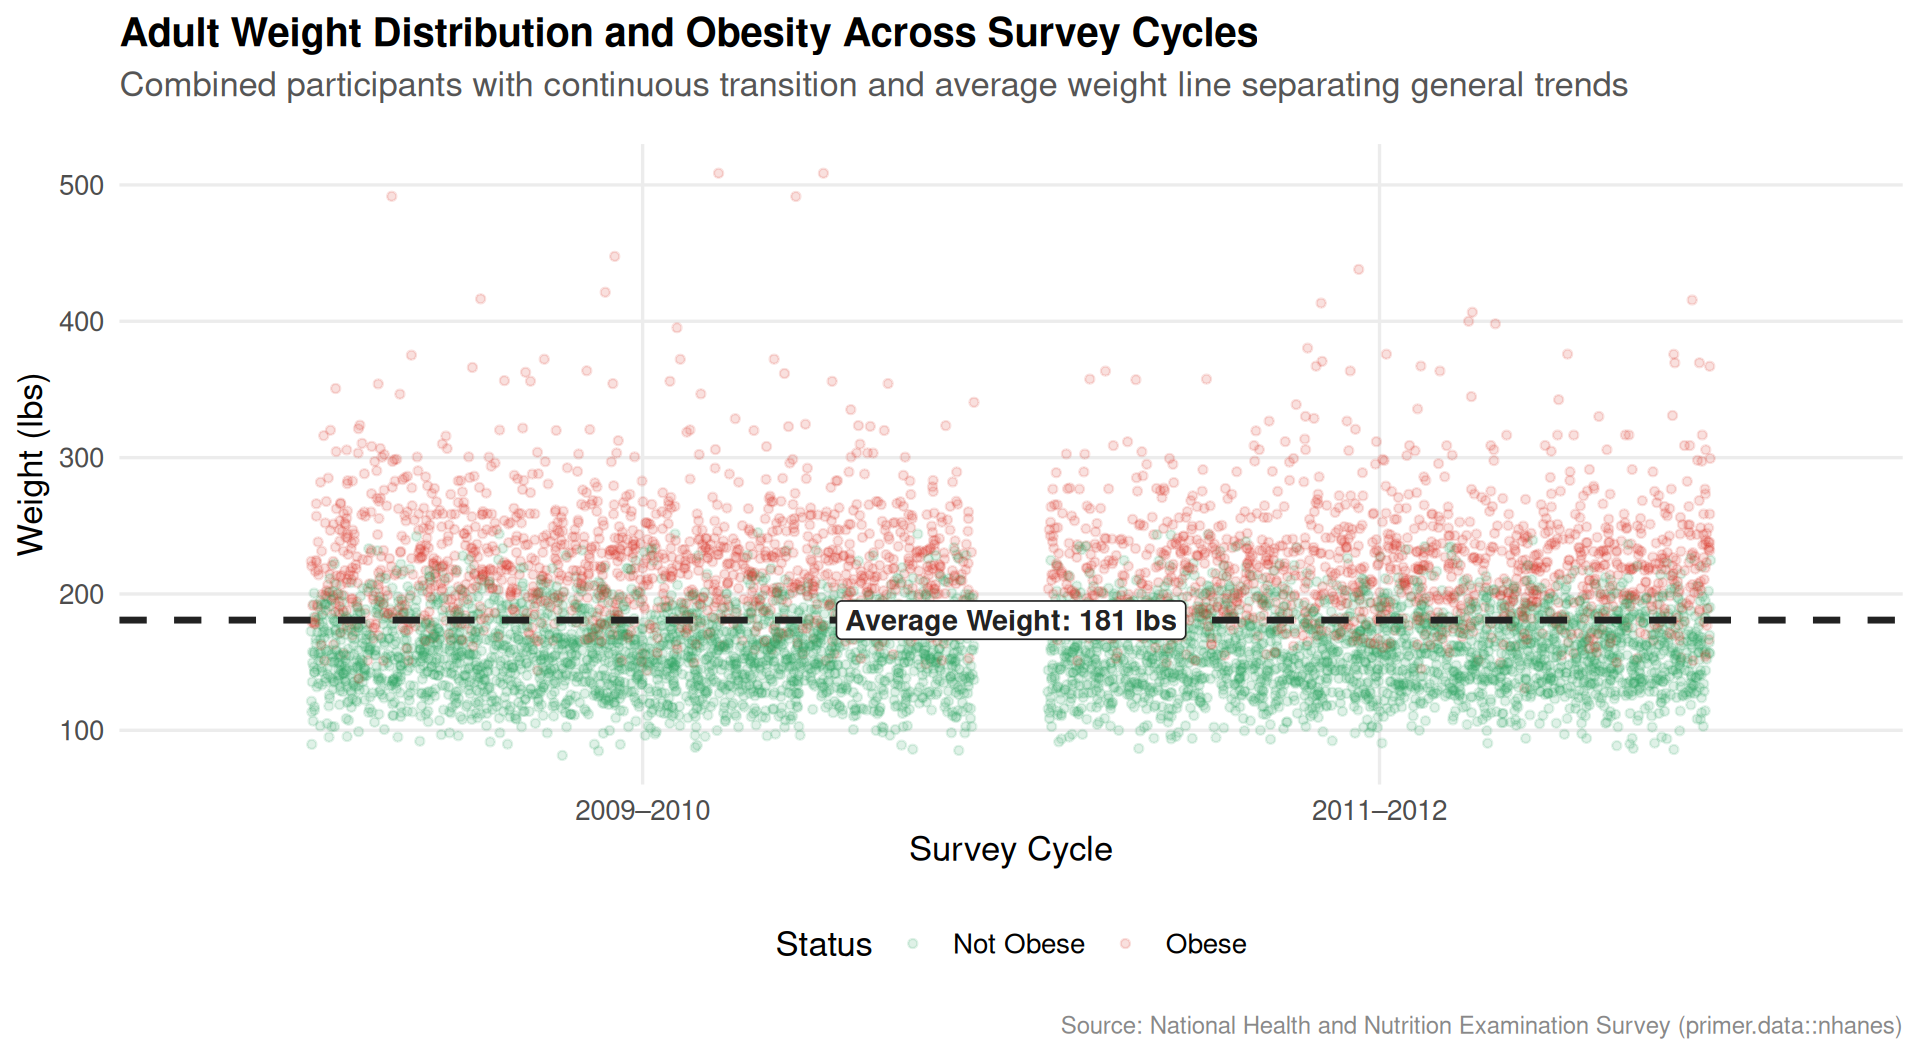
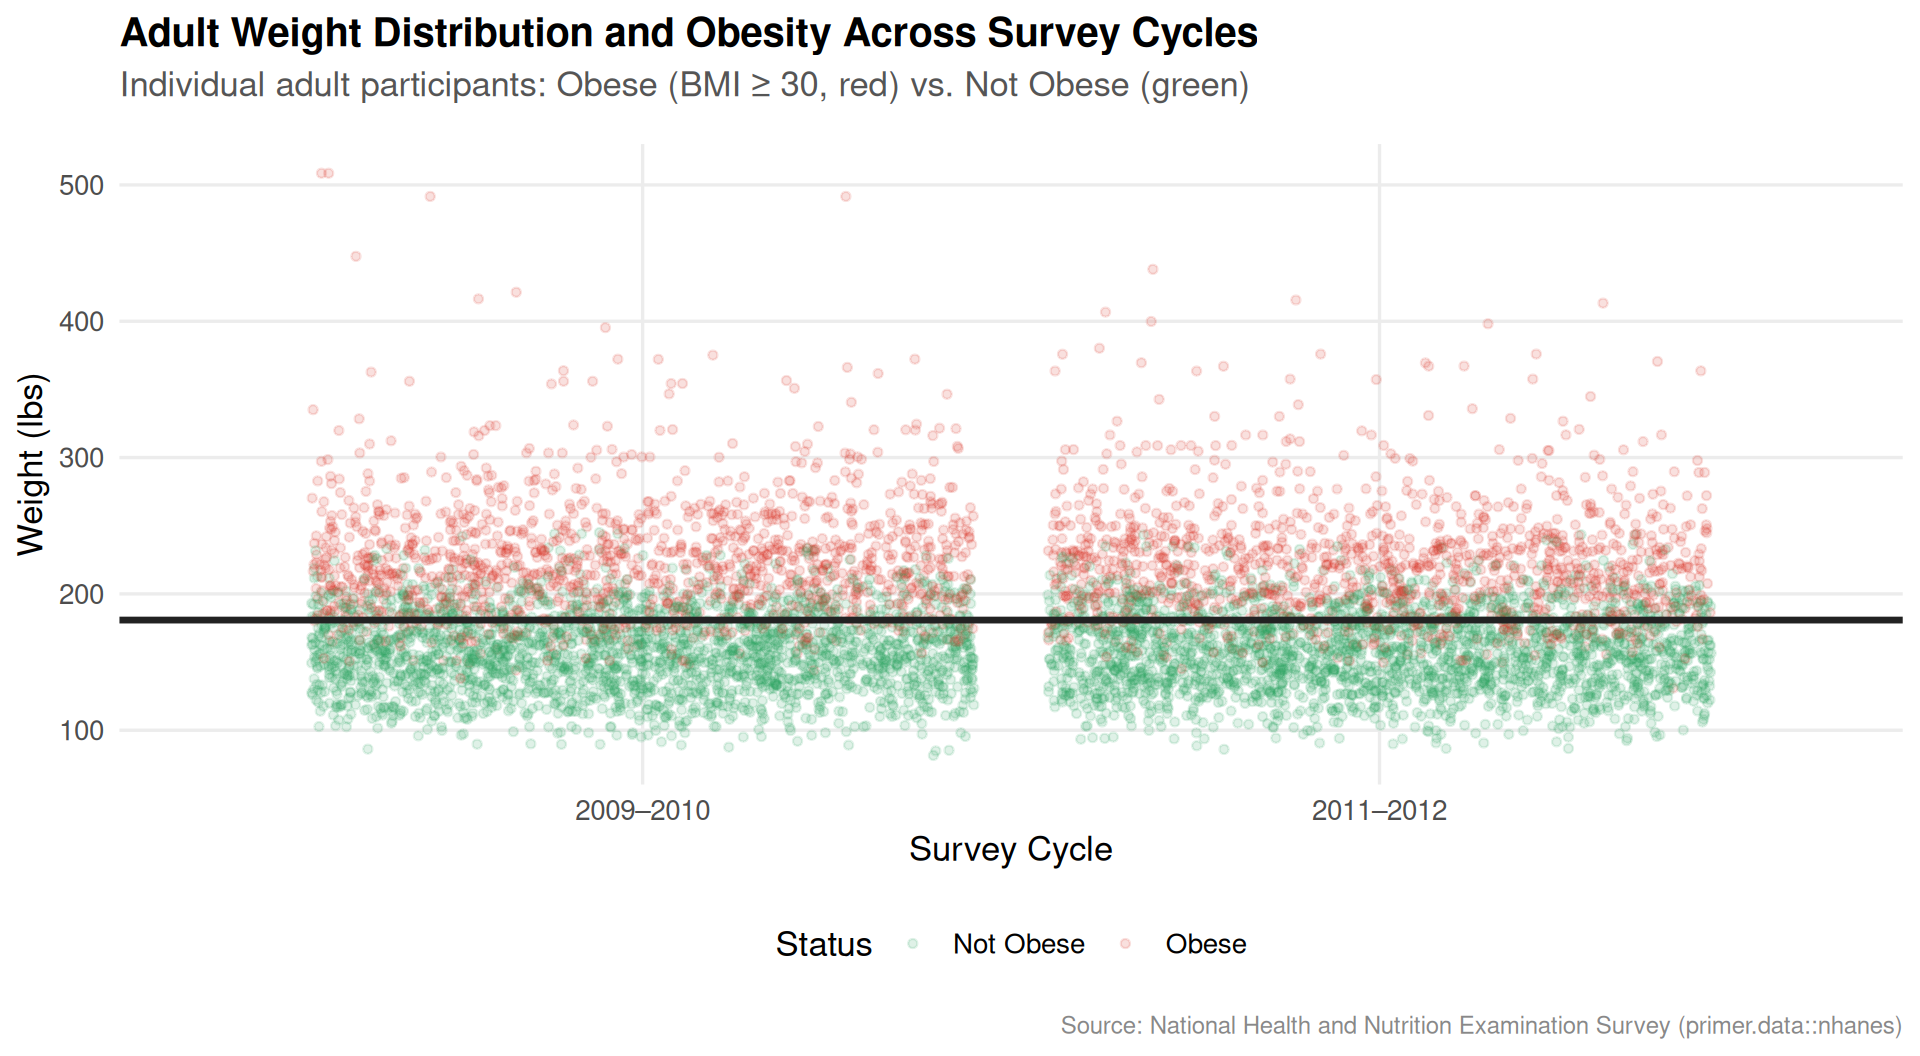
Built site for gh-pages

diff --git a/index.html b/index.html
@@ -196,6 +196,11 @@ ul.task-list li input[type="checkbox"] {
 </div>
 </div>
 </div>
+<ul>
+<li><strong>Individual Participant Points:</strong> Each dot represents an adult participant in NHANES. Green dots indicate individuals who are not obese (BMI &lt; 30), and red dots indicate individuals who are obese (BMI ≥ 30).</li>
+<li><strong>Average Weight Line:</strong> The solid black horizontal line represents the overall average adult weight of approximately 181 lbs, separating the general non-obese cluster below from the obese cluster above.</li>
+<li><strong>Survey Cycles:</strong> Weight patterns and the density of participants remain consistent across the 2009–2010 and 2011–2012 survey cycles.</li>
+</ul>
 </section>
 <section id="food-consumption-trends-ultra-processed-vs.-minimally-processed-foods" class="level2">
 <h2 class="anchored" data-anchor-id="food-consumption-trends-ultra-processed-vs.-minimally-processed-foods">Food Consumption Trends: Ultra-Processed vs.&nbsp;Minimally Processed Foods</h2>
